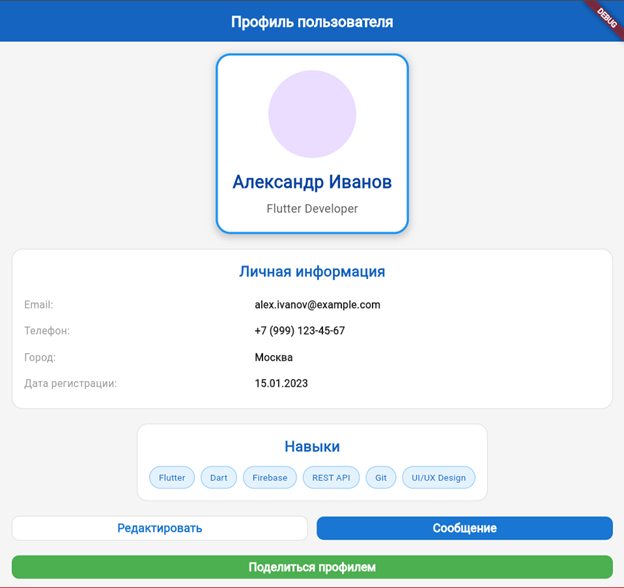
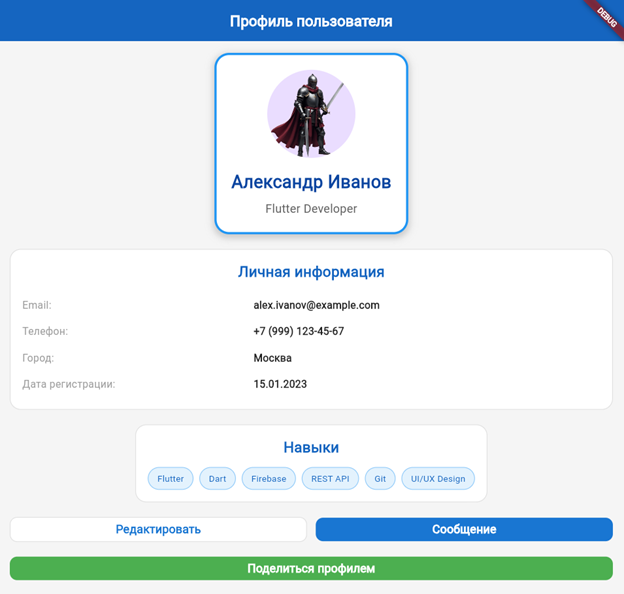
Подправка кода(исправление отображения картинки)

diff --git a/lib/main.dart b/lib/main.dart
@@ -66,9 +66,7 @@ class UserProfileScreen extends StatelessWidget {
                 children: [
                   const CircleAvatar(
                     radius: 60,
-                    backgroundImage: NetworkImage(
-                      'https://images.unsplash.com/photo-1472099645785-5658abf4ff4e?ixlib=rb-4.0.3&ixid=M3wxMjA3fDB8MHxwaG90by1wYWdlfHx8fGVufDB8fHx8fA%3D%3D&auto=format&fit=crop&w=1000&q=80',
-                    ),
+                    backgroundImage: AssetImage('assets/123.png'),
                   ),
                   const SizedBox(height: 16),
                   Text(
